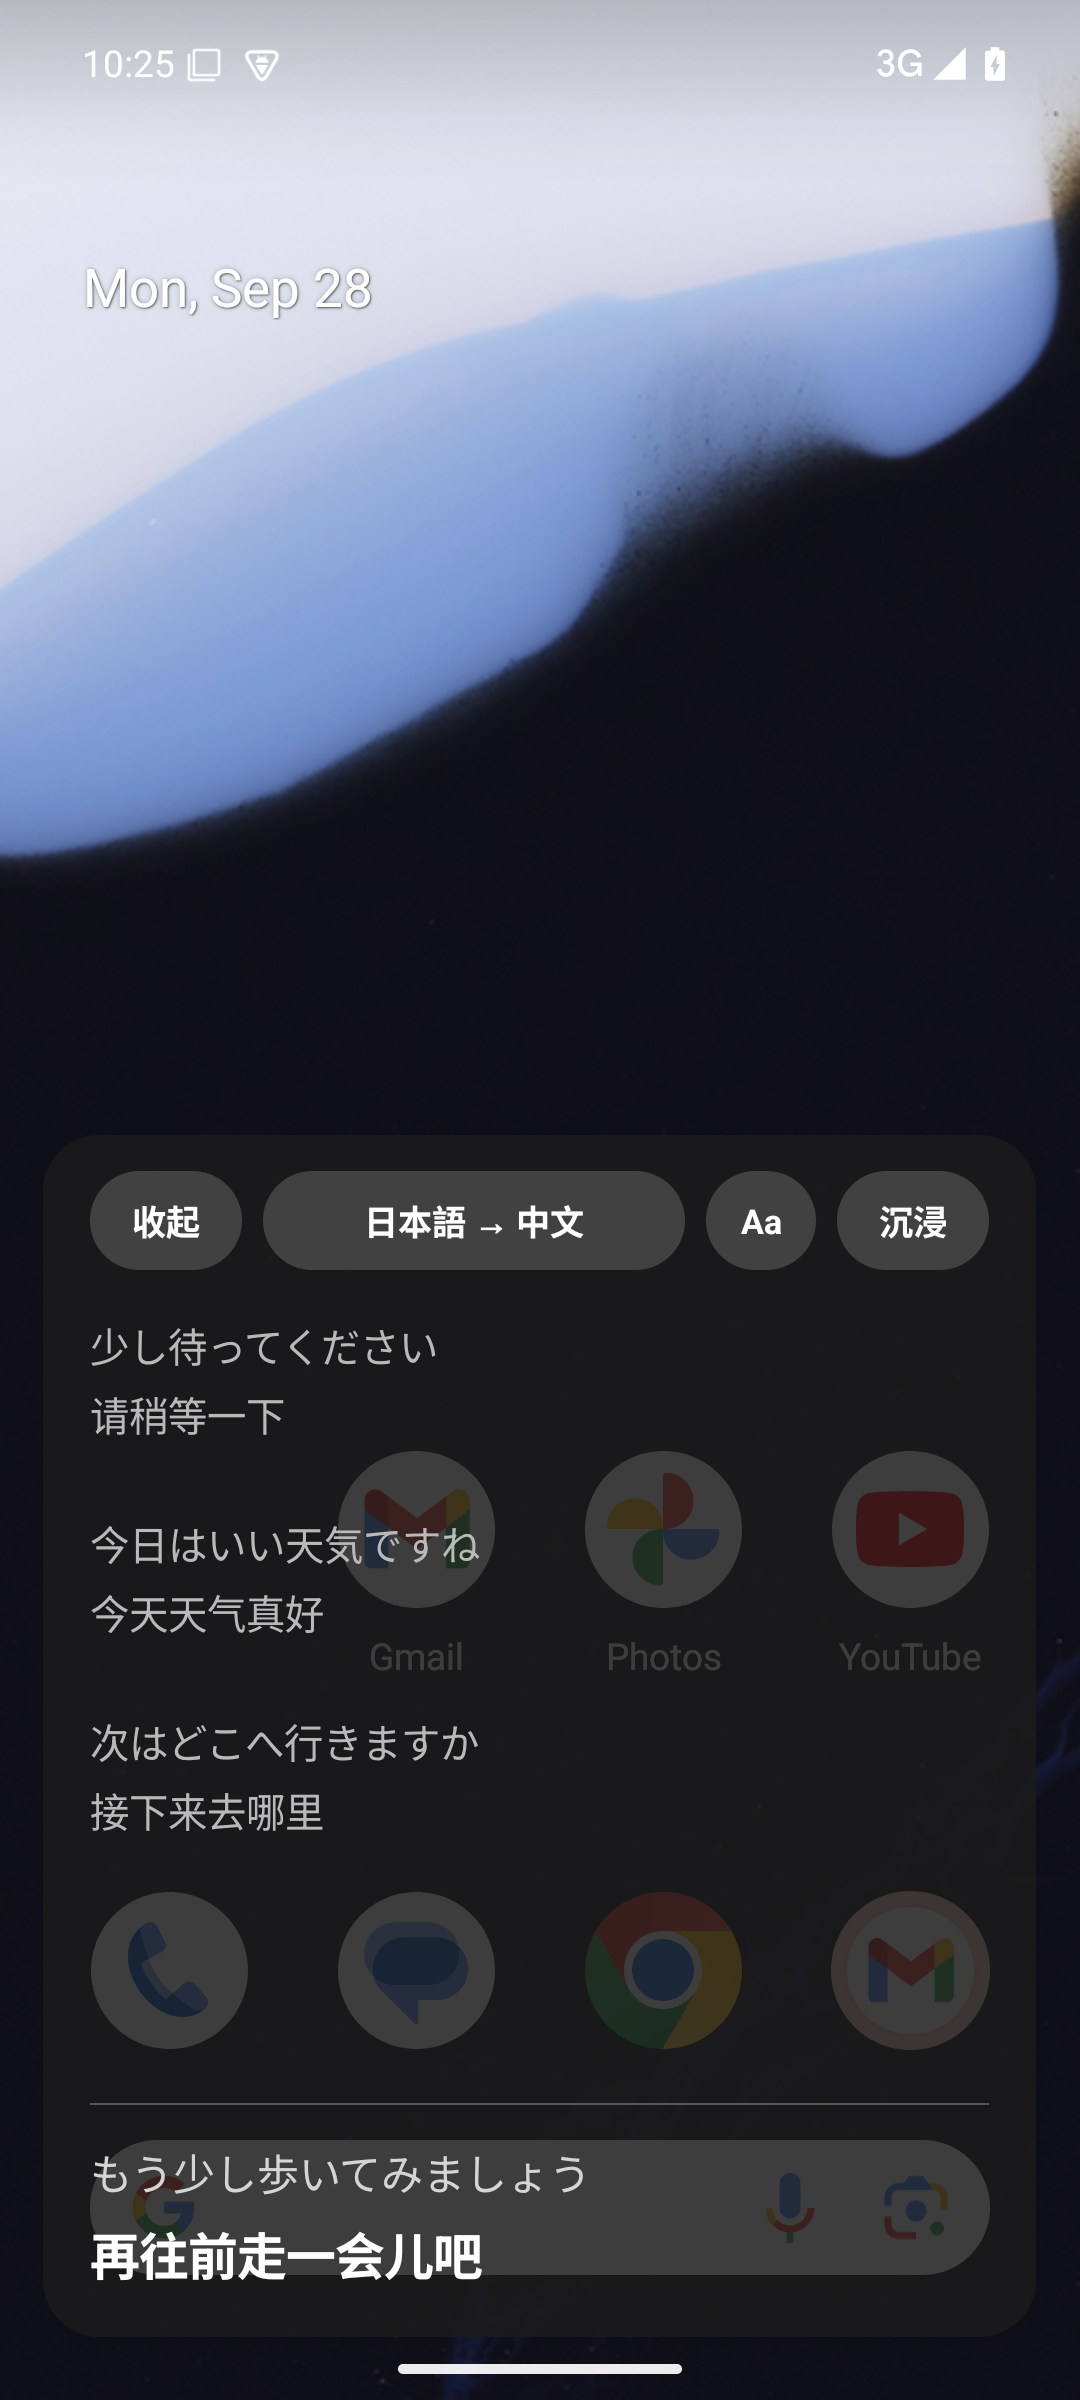
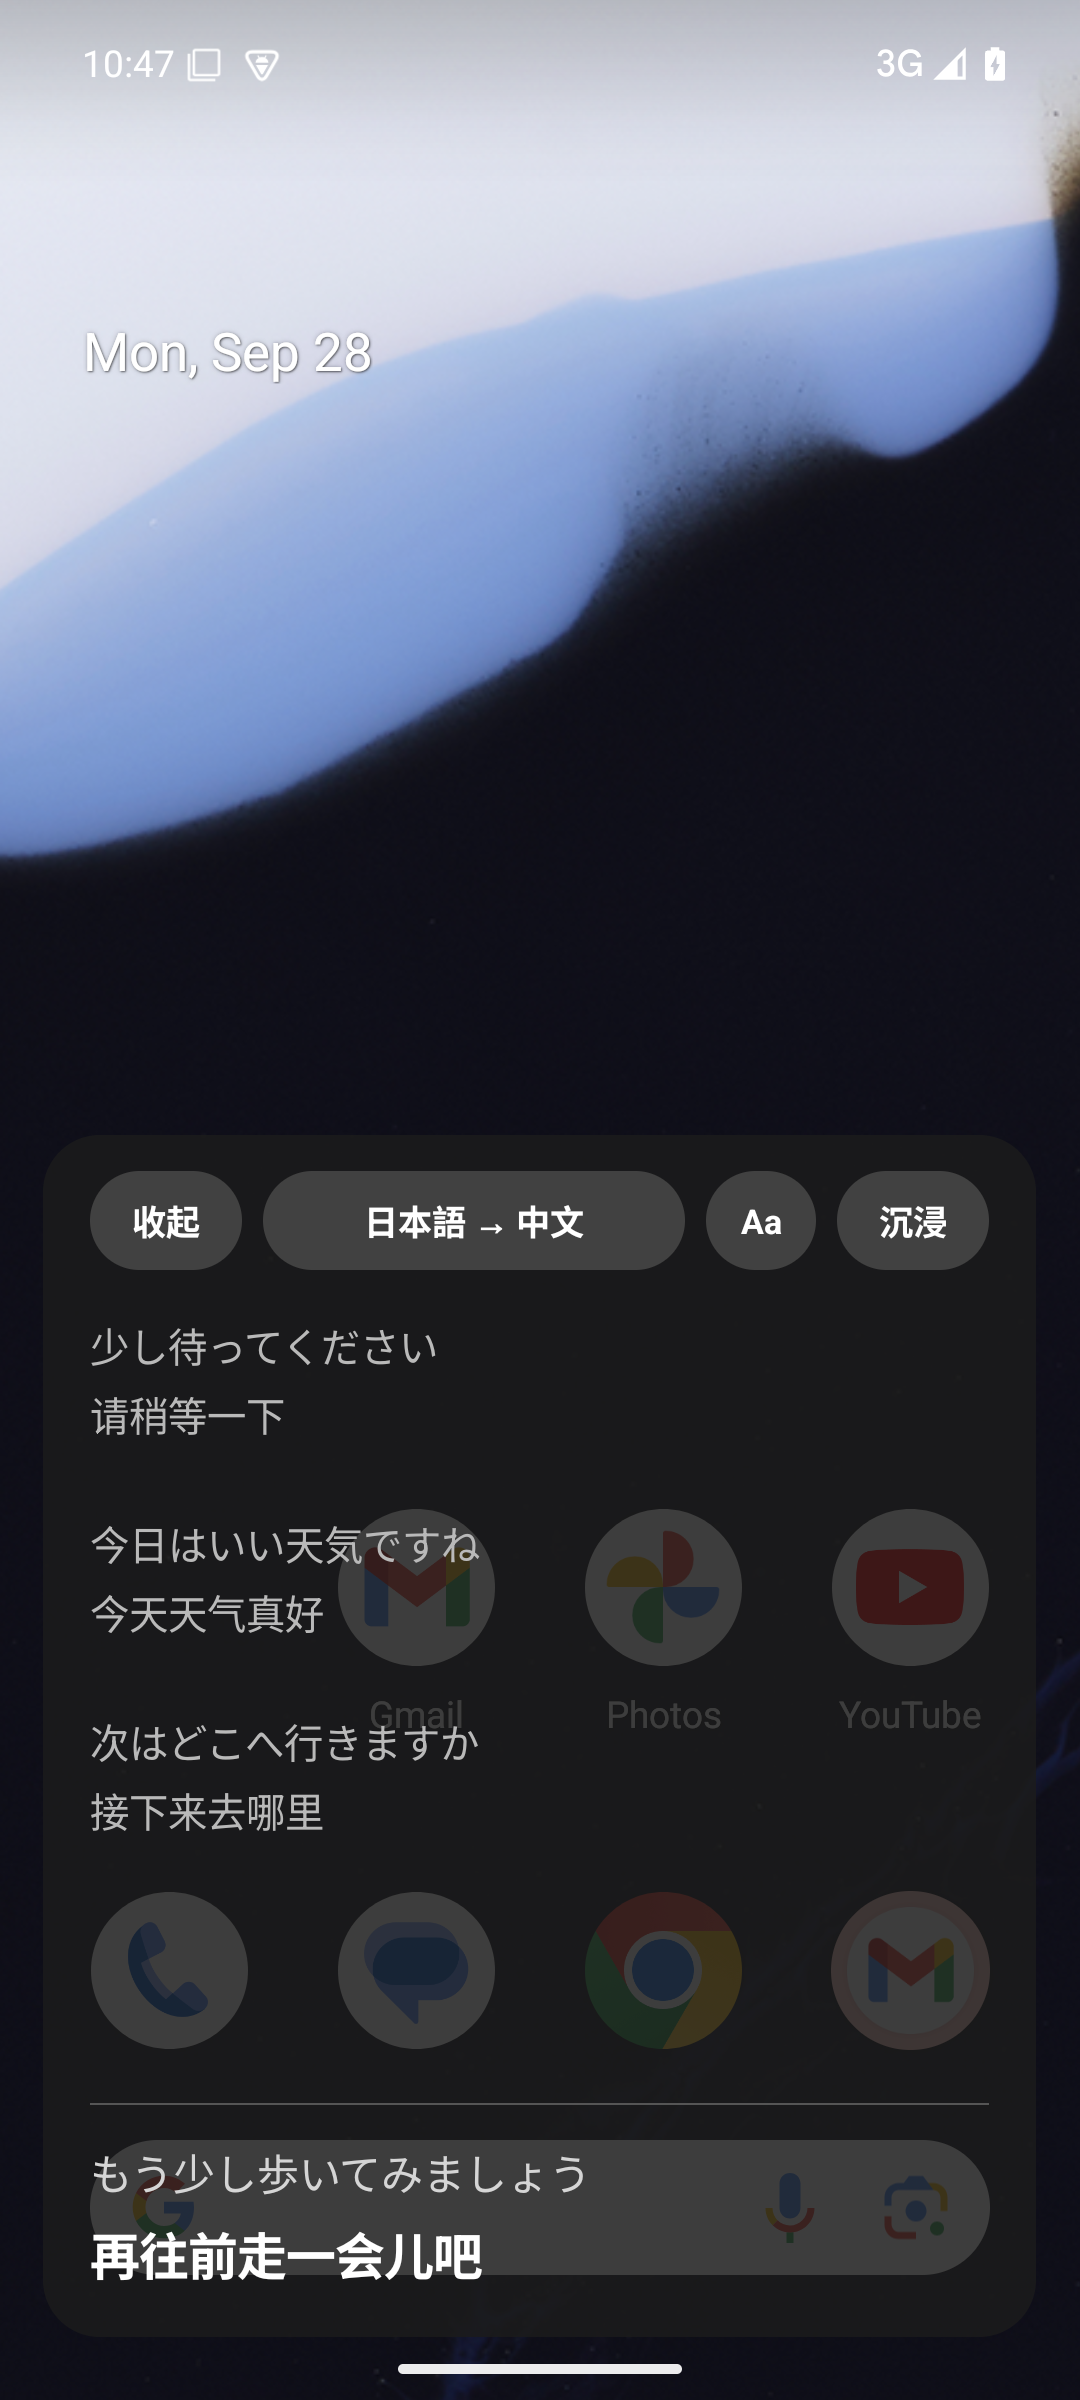
fix(android): keep landscape subtitle controls out of the way

diff --git a/android/app/src/androidTest/java/app/yuxino/mimi/android/UiSmokeInstrumentation.kt b/android/app/src/androidTest/java/app/yuxino/mimi/android/UiSmokeInstrumentation.kt
@@ -9,6 +9,7 @@ import android.os.SystemClock
 import android.provider.Settings
 import android.view.MotionEvent
 import android.view.View
+import android.view.WindowManager
 import android.view.inspector.WindowInspector
 import android.widget.ScrollView
 import android.widget.SeekBar
@@ -30,6 +31,7 @@ class UiSmokeInstrumentation : Instrumentation() {
     private var theme = "light"
     private var demo = false
     private var overlayPreview = false
+    private var expectLandscape = false
     private var screenshots = 0
     private var restoreTarget: String? = null
     private var restoreFont: Int? = null
@@ -42,6 +44,7 @@ class UiSmokeInstrumentation : Instrumentation() {
         theme = arguments?.getString("theme") ?: "light"
         demo = arguments?.getString("demo") == "true"
         overlayPreview = arguments?.getString("overlay_preview") == "true"
+        expectLandscape = arguments?.getString("expect_landscape") == "true"
         restoreTarget = arguments?.getString("restore_target")?.takeIf { it in listOf("zh", "en", "ja") }
         restoreFont = arguments?.getString("restore_font")?.toIntOrNull()?.takeIf { it in 12..24 }
         restoreColor = arguments?.getString("restore_color")?.toIntOrNull()?.takeIf { it in 0..4 }
@@ -208,10 +211,30 @@ class UiSmokeInstrumentation : Instrumentation() {
                 .addCategory(Intent.CATEGORY_HOME)
                 .addFlags(Intent.FLAG_ACTIVITY_NEW_TASK))
             waitForIdleSync()
+            if (expectLandscape) {
+                var wide = false
+                for (attempt in 0 until 30) {
+                    val screenshot = checkNotNull(uiAutomation.takeScreenshot())
+                    wide = screenshot.width > screenshot.height
+                    screenshot.recycle()
+                    if (wide) break
+                    SystemClock.sleep(100)
+                }
+                check(wide) { "Landscape display did not settle before screenshot" }
+            }
             check(compact.isShown && !expanded.isShown)
             capture("overlay-before-compact-$theme")
             onUi { check(compact.performClick()) }
             check(expanded.isShown && !compact.isShown) { "Expanded floating overlay did not open" }
+            if (targetContext.resources.displayMetrics.widthPixels > targetContext.resources.displayMetrics.heightPixels) {
+                val params = overlay.layoutParams as WindowManager.LayoutParams
+                check(params.width <= (560 * targetContext.resources.displayMetrics.density).toInt()) {
+                    "Landscape panel is too wide"
+                }
+                check(params.height <= (targetContext.resources.displayMetrics.heightPixels * 0.48f).toInt()) {
+                    "Landscape panel blocks too much height"
+                }
+            }
             capture("overlay-after-expanded-default-$theme")
             val savedHistory = SettingsStore.historyLines(targetContext)
             targetContext.startService(Intent(targetContext, MimiService::class.java)
@@ -219,15 +242,30 @@ class UiSmokeInstrumentation : Instrumentation() {
             waitForIdleSync()
             check(SettingsStore.historyLines(targetContext) == savedHistory)
             capture("overlay-after-expanded-history-$theme")
-            onUi { check(expanded.findViewWithTag<View>("collapse-overlay").performClick()) }
+            onUi { check(expanded.findViewWithTag<View>("collapse-overlay").performClick()) { "Collapse click failed" } }
             check(compact.isShown && !expanded.isShown) { "Floating overlay did not collapse" }
-            onUi { check(compact.performClick()) }
-            onUi { check(expanded.findViewWithTag<View>("enter-immersive").performClick()) }
-            check(SettingsStore.immersiveSubtitles(targetContext))
+            onUi { check(compact.performClick()) { "Compact reopen click failed" } }
+            onUi { check(expanded.findViewWithTag<View>("enter-immersive").performClick()) { "Immersive entry click failed" } }
+            check(SettingsStore.immersiveSubtitles(targetContext)) { "Immersive entry did not update preference" }
             val exit = WindowInspector.getGlobalWindowViews()
                 .firstOrNull { it.tag == "exit-immersive" }
             check(exit?.isShown == true) { "Immersive mode has no in-overlay exit" }
+            var touchThrough = false
+            for (attempt in 0 until 30) {
+                waitForIdleSync()
+                touchThrough = WindowInspector.getGlobalWindowViews().any {
+                    it.tag == "mimi-overlay" &&
+                        (it.layoutParams as WindowManager.LayoutParams).flags and
+                            WindowManager.LayoutParams.FLAG_NOT_TOUCHABLE != 0
+                }
+                if (touchThrough) break
+                SystemClock.sleep(100)
+            }
+            check(touchThrough) { "Subtitle window is not touch-through" }
+            check((exit.layoutParams as WindowManager.LayoutParams).flags and
+                WindowManager.LayoutParams.FLAG_NOT_TOUCHABLE == 0) { "Exit control is not touchable" }
             capture("overlay-after-immersive-$theme")
+            dragExitControl(exit)
             onUi { check(exit.performClick()) { "Exit control click failed" } }
             waitForIdleSync()
             check(!SettingsStore.immersiveSubtitles(targetContext)) { "Exit did not clear immersive preference" }
@@ -268,6 +306,27 @@ class UiSmokeInstrumentation : Instrumentation() {
             SystemClock.sleep(100)
         }
         return null
+    }
+
+    private fun dragExitControl(exit: View) {
+        val location = IntArray(2)
+        onUi { exit.getLocationOnScreen(location) }
+        val x = location[0] + exit.width / 2f
+        val startY = location[1] + exit.height / 2f
+        val endY = (startY + 90f).coerceAtMost(targetContext.resources.displayMetrics.heightPixels - 70f)
+        val down = SystemClock.uptimeMillis()
+        fun event(action: Int, y: Float) {
+            val pointer = MotionEvent.obtain(down, SystemClock.uptimeMillis(), action, x, y, 0)
+            sendPointerSync(pointer)
+            pointer.recycle()
+        }
+        event(MotionEvent.ACTION_DOWN, startY)
+        event(MotionEvent.ACTION_MOVE, endY)
+        event(MotionEvent.ACTION_UP, endY)
+        waitForIdleSync()
+        val after = IntArray(2)
+        onUi { exit.getLocationOnScreen(after) }
+        check(after[1] > location[1] + 20) { "Immersive exit control could not move away from app controls" }
     }
 
     private fun demonstrate() {

diff --git a/android/app/src/main/java/app/yuxino/mimi/android/capture/MimiService.kt b/android/app/src/main/java/app/yuxino/mimi/android/capture/MimiService.kt
@@ -11,6 +11,7 @@ import android.app.PendingIntent
 import android.app.Service
 import android.content.Context
 import android.content.Intent
+import android.content.res.Configuration
 import android.content.pm.ServiceInfo
 import android.graphics.Color
 import android.graphics.PixelFormat
@@ -68,6 +69,8 @@ class MimiService : Service() {
     private var overlayView: View? = null
     private var overlayParams: WindowManager.LayoutParams? = null
     private var immersiveExitView: View? = null
+    private var immersiveExitParams: WindowManager.LayoutParams? = null
+    private var immersiveExitYFraction = 0.42f
     private var compactView: View? = null
     private var expandedView: View? = null
     private var expanded = false
@@ -373,6 +376,19 @@ class MimiService : Service() {
         super.onDestroy()
     }
 
+    override fun onConfigurationChanged(newConfig: Configuration) {
+        super.onConfigurationChanged(newConfig)
+        mainHandler.post {
+            if (expanded) {
+                resizeExpandedOverlay(SubtitleBus.historySnapshot().size)
+            }
+            immersiveExitParams?.let { params ->
+                params.y = exitControlY()
+                immersiveExitView?.let { windowManager?.updateViewLayout(it, params) }
+            }
+        }
+    }
+
     /** The actual floating window: a small live line that opens a bounded reading panel. */
     private fun showOverlay() {
         if (overlayView != null) return
@@ -496,24 +512,60 @@ class MimiService : Service() {
     }
 
     private fun showImmersiveExitControl(wm: WindowManager) {
-        val exit = panelButton(getString(R.string.overlay_exit_immersive)).apply {
+        val exit = panelButton(getString(R.string.overlay_exit_short)).apply {
             tag = "exit-immersive"
             contentDescription = getString(R.string.overlay_exit_immersive)
-            alpha = 0.72f
+            alpha = 0.68f
             setOnClickListener { setImmersiveMode(false) }
         }
         val params = WindowManager.LayoutParams(
-            dp(88), dp(40), WindowManager.LayoutParams.TYPE_APPLICATION_OVERLAY,
+            dp(56), dp(40), WindowManager.LayoutParams.TYPE_APPLICATION_OVERLAY,
             WindowManager.LayoutParams.FLAG_NOT_FOCUSABLE or WindowManager.LayoutParams.FLAG_NOT_TOUCH_MODAL,
             PixelFormat.TRANSLUCENT,
         ).apply {
             gravity = Gravity.TOP or Gravity.END
-            x = dp(12)
-            y = dp(16)
+            x = dp(4)
+            y = exitControlY()
+        }
+        var initialY = 0
+        var initialTouchY = 0f
+        var dragged = false
+        exit.setOnTouchListener { _, event ->
+            when (event.actionMasked) {
+                MotionEvent.ACTION_DOWN -> {
+                    initialY = params.y
+                    initialTouchY = event.rawY
+                    dragged = false
+                    true
+                }
+                MotionEvent.ACTION_MOVE -> {
+                    if (kotlin.math.abs(event.rawY - initialTouchY) > dp(8)) dragged = true
+                    if (dragged) {
+                        params.y = (initialY + event.rawY - initialTouchY).toInt()
+                            .coerceIn(0, (resources.displayMetrics.heightPixels - dp(48)).coerceAtLeast(0))
+                        wm.updateViewLayout(exit, params)
+                    }
+                    true
+                }
+                MotionEvent.ACTION_UP -> {
+                    if (dragged) {
+                        immersiveExitYFraction = params.y.toFloat() /
+                            resources.displayMetrics.heightPixels.coerceAtLeast(1)
+                    } else exit.performClick()
+                    true
+                }
+                MotionEvent.ACTION_CANCEL -> true
+                else -> false
+            }
         }
         wm.addView(exit, params)
         immersiveExitView = exit
+        immersiveExitParams = params
     }
+
+    private fun exitControlY(): Int =
+        (resources.displayMetrics.heightPixels * immersiveExitYFraction).toInt()
+            .coerceIn(0, (resources.displayMetrics.heightPixels - dp(48)).coerceAtLeast(0))
 
     private fun setImmersiveMode(enabled: Boolean) {
         if (immersiveSession == enabled) return
@@ -663,8 +715,8 @@ class MimiService : Service() {
         compactView?.visibility = View.GONE
         panel.visibility = View.VISIBLE
         expanded = true
-        params.width = (resources.displayMetrics.widthPixels * 0.92f).toInt()
-        params.height = dp(230)
+        params.width = expandedPanelWidth()
+        params.height = expandedPanelHeight(0)
         params.gravity = Gravity.BOTTOM or Gravity.CENTER_HORIZONTAL
         params.y = 0
         windowManager?.updateViewLayout(root, params)
@@ -674,11 +726,23 @@ class MimiService : Service() {
     private fun resizeExpandedOverlay(historyCount: Int) {
         val root = overlayView ?: return
         val params = overlayParams ?: return
-        val desiredHeight = dp(230 + historyCount * 76)
-            .coerceAtMost((resources.displayMetrics.heightPixels * 0.64f).toInt())
-        if (params.height == desiredHeight) return
+        val desiredWidth = expandedPanelWidth()
+        val desiredHeight = expandedPanelHeight(historyCount)
+        if (params.width == desiredWidth && params.height == desiredHeight) return
+        params.width = desiredWidth
         params.height = desiredHeight
         windowManager?.updateViewLayout(root, params)
+    }
+
+    private fun expandedPanelWidth(): Int =
+        (resources.displayMetrics.widthPixels * 0.92f).toInt().coerceAtMost(dp(560))
+
+    private fun expandedPanelHeight(historyCount: Int): Int {
+        val landscape = resources.displayMetrics.widthPixels > resources.displayMetrics.heightPixels
+        val maxFraction = if (landscape && historyCount == 0) 0.48f
+            else if (landscape) 0.62f else 0.64f
+        return dp(230 + historyCount * 76)
+            .coerceAtMost((resources.displayMetrics.heightPixels * maxFraction).toInt())
     }
 
     private fun collapseOverlay() {
@@ -701,6 +765,7 @@ class MimiService : Service() {
         } catch (_: Exception) {
         }
         immersiveExitView = null
+        immersiveExitParams = null
         try {
             overlayView?.let { windowManager?.removeView(it) }
         } catch (_: Exception) {

diff --git a/docs/plans/2026-09-28-android-compact-immersive-subtitles.md b/docs/plans/2026-09-28-android-compact-immersive-subtitles.md
@@ -20,12 +20,18 @@ default and never appears until explicitly enabled in settings.
 The panel or appearance switch enables immersive mode immediately without
 restarting audio capture. The subtitle window then has no background, hides
 history, uses a text shadow for contrast, and passes touches through. A separate
-small, touchable exit control sits at the upper right; it remains available even
-when subtitles temporarily hide. Tapping it returns to the ordinary compact
-card. Android 12 and newer reject touches passing through a fully opaque
+small, touchable exit control sits on the right edge. Users can drag it
+vertically out of the video's controls; it remains available even when subtitles
+temporarily hide. Tapping it returns to the ordinary compact card. In landscape,
+the expanded reading panel caps its width at 560 dp and its height at 48% of
+the screen without history, leaving the video sides operable. Android 12 and
+newer reject touches passing through a fully opaque
 untrusted overlay, so the immersive text window's opacity is capped at 0.8.
 The app and foreground notification remain backup controls. The ordinary card
-stays touchable for dragging.
+stays touchable for dragging. The compact card and expanded panel consume
+touches only inside their own window bounds; the immersive subtitle text does
+not consume touches. The small exit control consumes touches in its own bounds
+and can be moved away from another app's controls.
 
 Mode and appearance settings save separately from provider credentials. A
 debug-only instrumentation fixture renders the actual floating window over the

diff --git a/android/README.md b/android/README.md
@@ -34,9 +34,11 @@ translation for system audio. Pure Kotlin (no Tauri), single module.
   font-size control, collapse action, and immersive toggle. Its compact card has adjustable background alpha
   (0–90 %), text color presets, font size, and whole-window opacity. An optional
   immersive mode shows plain text with a contrast shadow and passes touches
-  through to the app below. A small control at the upper right exits immersive
+  through to the app below. A small control on the right edge can be moved
+  vertically and exits immersive
   mode without stopping the session; the app and foreground notification remain
-  backup controls.
+  backup controls. In landscape, the expanded panel stays centered and caps its
+  width at 560 dp; its covered area receives touches until it is collapsed.
 - **Native-subtitle behaviour** — only the current sentence is shown (drafts
   are clipped to the last sentence of the provider's cumulative buffer);
   English source speech shows source + translation lines, other languages show
